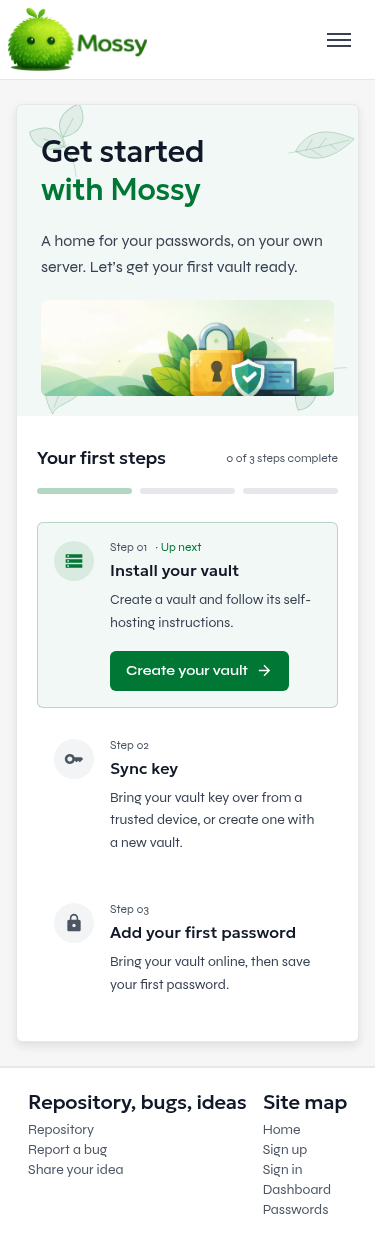
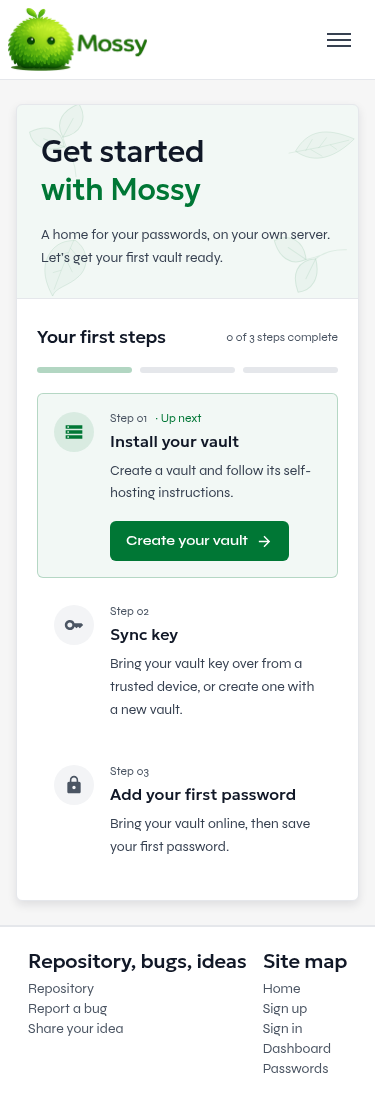
fix(frontend): compact onboarding and honor animation contract

diff --git a/mossy-frontend/src/ui/dashboard/DashboardOnboarding.tsx b/mossy-frontend/src/ui/dashboard/DashboardOnboarding.tsx
@@ -82,37 +82,32 @@ export default function DashboardOnboarding({
 
     return (
         <motion.section
-            className="mx-auto w-full max-w-6xl px-4 py-6 sm:px-6 sm:py-10 lg:py-14"
+            className="mx-auto w-full max-w-lg px-4 py-6 sm:py-8"
             aria-labelledby="onboarding-title"
             initial={reducedMotion ? false : { opacity: 0, y: 12 }}
             animate={{ opacity: 1, y: 0 }}
             transition={{ duration: 0.35, ease: 'easeOut' }}
         >
-            <div className="grid overflow-hidden rounded-md border border-border bg-surface shadow-card md:grid-cols-[0.9fr_1.1fr]">
-                <div className="relative flex flex-col justify-between bg-brand/5 px-6 pt-7 pb-5 sm:px-10 sm:pt-12 sm:pb-6 md:border-r md:border-border">
-                    <SectionLeaves variant="sprigs" />
+            <div className="overflow-hidden rounded-md border border-border bg-surface shadow-card">
+                <div className="relative border-b border-border bg-brand/5 px-6 py-7 sm:px-8 sm:py-8">
+                    <div className="pointer-events-none absolute inset-0 opacity-45">
+                        <SectionLeaves variant="sprigs" />
+                    </div>
                     <div className="relative">
                         <h1
                             id="onboarding-title"
-                            className="max-w-sm text-3xl leading-tight sm:text-4xl"
+                            className="max-w-sm text-3xl leading-tight"
                         >
                             Get started{' '}
                             <span className="block text-brand">with Mossy</span>
                         </h1>
-                        <p className="mt-5 max-w-sm text-base leading-relaxed text-fg-secondary">
+                        <p className="mt-4 max-w-sm text-sm leading-relaxed text-fg-secondary">
                             A home for your passwords, on your own server. Let’s
                             get your first vault ready.
                         </p>
                     </div>
-                    <img
-                        src="/hero.png"
-                        width="2048"
-                        height="600"
-                        alt=""
-                        className="relative mt-5 h-24 w-full rounded-md object-cover object-[72%_center] sm:mt-8 sm:h-44 md:mt-12 md:h-52"
-                    />
                 </div>
-                <div className="px-5 py-7 sm:p-9 lg:p-10">
+                <div className="px-5 py-6 sm:px-6 sm:py-7">
                     <div className="flex items-center justify-between gap-3">
                         <h2 className="text-lg">Your first steps</h2>
                         <p
@@ -139,7 +134,7 @@ export default function DashboardOnboarding({
                             />
                         ))}
                     </div>
-                    <ol className="mt-7 space-y-3">
+                    <ol className="mt-5 space-y-2">
                         {steps.map(
                             (
                                 { title, description, to, done, action, Icon },
@@ -154,7 +149,7 @@ export default function DashboardOnboarding({
                                             aria-current={
                                                 isNext ? 'step' : undefined
                                             }
-                                            className={`group flex gap-4 rounded-md border p-4 transition-colors focus-visible:outline-none focus-visible:ring-2 focus-visible:ring-brand focus-visible:ring-offset-2 motion-reduce:transition-none ${isNext ? 'border-brand/25 bg-brand/5 hover:bg-brand/10' : 'border-transparent hover:bg-surface-subtle'}`}
+                                            className={`group flex gap-4 rounded-md border p-4 focus-visible:outline-none focus-visible:ring-2 focus-visible:ring-brand focus-visible:ring-offset-2 ${isNext ? 'border-brand/25 bg-brand/5 hover:bg-brand/10' : 'border-transparent hover:bg-surface-subtle'}`}
                                         >
                                             <span
                                                 className={`mt-0.5 flex h-10 w-10 shrink-0 items-center justify-center rounded-full ${done ? 'bg-brand text-fg-inverse' : isNext ? 'bg-brand/10 text-brand' : 'bg-surface-muted text-fg-muted'}`}
